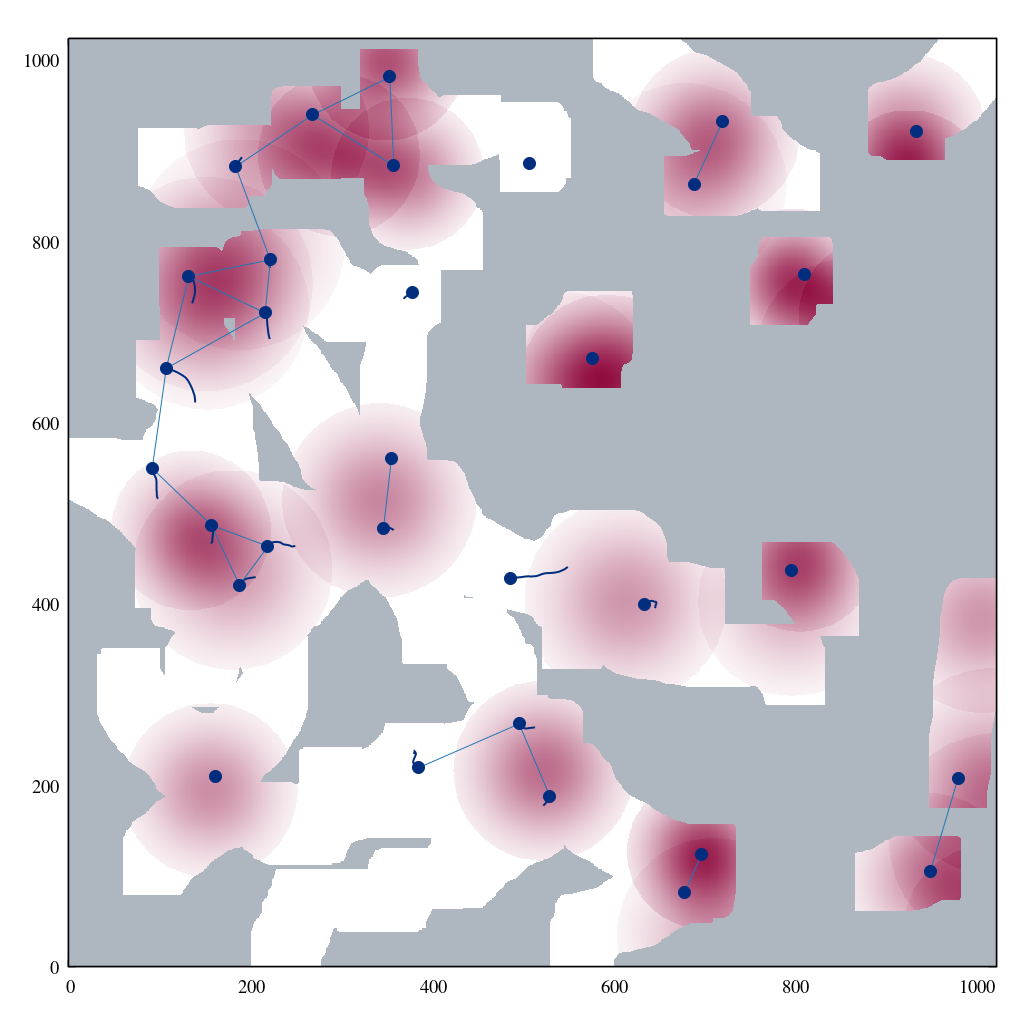
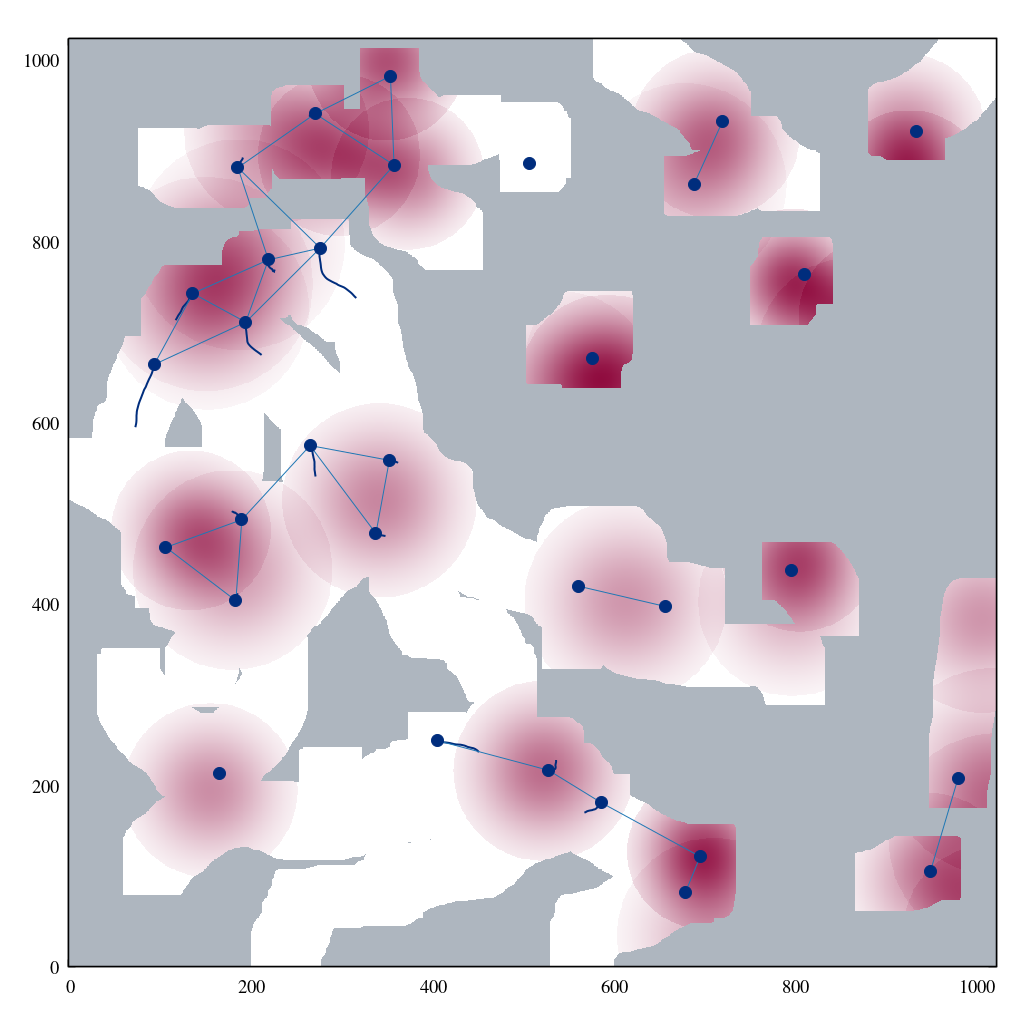
12.7 V1

diff --git a/python/coverage_control/algorithms/controllers.py b/python/coverage_control/algorithms/controllers.py
@@ -34,9 +34,36 @@ from ..core import CoverageSystem
 from ..core import Parameters
 from ..core import PointVector
 from coverage_control.nn.models.diffusion_policy import DiffusionPolicy
+import torch.nn.functional as F
+
 
 __all__ = ["ControllerCVT", "ControllerNN"]
 
+import numpy as np  # 新增
+
+def build_diffusion_schedule(
+    num_steps: int,
+    beta_start: float = 1e-4,
+    beta_end: float = 2e-2,
+    device: torch.device | str | None = None,
+):
+    """
+    创建与 train_diffusion.py 中一致的线性 beta 调度。
+    只用到 betas, alphas, alpha_cumprod 就够了。
+    """
+    if device is None:
+        device = "cpu"
+
+    betas = torch.linspace(beta_start, beta_end, num_steps, device=device)
+    alphas = 1.0 - betas
+    alpha_cumprod = torch.cumprod(alphas, dim=0)
+
+    return {
+        "num_steps": num_steps,
+        "betas": betas,
+        "alphas": alphas,
+        "alpha_cumprod": alpha_cumprod,
+    }
 
 class ControllerCVT:
     """
@@ -105,48 +132,95 @@ class ControllerNN:
         self.config = config
         self.params = params
         self.name = self.config["Name"]
-        self.policy_type = self.config.get("PolicyType", "LPAC")
+        # PolicyType: "LPAC"（默认）或 "DIFFUSION"
+        self.policy_type = str(self.config.get("PolicyType", "LPAC")).upper()
+
         self.use_cnn = self.config["UseCNN"]
         self.use_comm_map = self.config["UseCommMap"]
         self.cnn_map_size = self.config["CNNMapSize"]
 
         self.device = torch.device("cuda" if torch.cuda.is_available() else "cpu")
-        # print(f"Using device: {self.device}")
 
+        # 归一化统计量（LPAC / Diffusion 都可能会用到）
+        self.actions_mean: torch.Tensor | None = None
+        self.actions_std: torch.Tensor | None = None
+
+        # 扩散调度结构，只在 DIFFUSION 模式下用
+        self.diffusion: dict | None = None
+
+        # --------------------------------------------------------------
+        # 1) 如果配置里给的是 ModelFile（原作者 JIT 导出的那种）
+        # --------------------------------------------------------------
         if "ModelFile" in self.config:
             self.model_file = IOUtils.sanitize_path(self.config["ModelFile"])
-            self.model = torch.load(self.model_file).to(self.device)
-        else:  # Load from ModelStateDict
-            self.learning_params_file = IOUtils.sanitize_path(
-                    self.config["LearningParams"]
-                    )
+            # 作者这里用的是 torch.load（而不是 torch.jit.load），我们保持行为一致
+            self.model = torch.load(self.model_file, map_location=self.device)
+        else:
+            # ----------------------------------------------------------
+            # 2) 否则，用 LearningParams + ModelStateDict 的方式加载
+            # ----------------------------------------------------------
+            self.learning_params_file = IOUtils.sanitize_path(self.config["LearningParams"])
             self.learning_params = IOUtils.load_toml(self.learning_params_file)
+
             if self.policy_type == "LPAC":
+                # 原始 LPAC GNN policy，保持不变
                 self.model = cc_nn.LPAC(self.learning_params).to(self.device)
+                # LPAC 内部的 load_model 会自己处理 state_dict 和 actions_mean/std
                 self.model.load_model(IOUtils.sanitize_path(self.config["ModelStateDict"]))
-            
-            elif self.policy_type == "Diffusion":
-                # 新增的DiffusionPolicy 的加载
+                self.actions_mean = self.model.actions_mean.to(self.device)
+                self.actions_std = self.model.actions_std.to(self.device)
+
+            elif self.policy_type == "DIFFUSION":
+                # 我们训练好的 DiffusionPolicy
                 ckpt_path = IOUtils.sanitize_path(self.config["ModelStateDict"])
                 ckpt = torch.load(ckpt_path, map_location=self.device)
-                
+
                 if isinstance(ckpt, dict) and "model_state_dict" in ckpt:
-                    state_dict = ckpt["model_state_dict"]
+                    raw_state_dict = ckpt["model_state_dict"]
                 else:
-                    state_dict = ckpt
-                
+                    raw_state_dict = ckpt
+
+                # 从 state_dict 中把 actions_mean / actions_std 抠出来，
+                # 并且从 state_dict 中删除，避免 load_state_dict 报 Unexpected key
+                am = raw_state_dict.pop("actions_mean", None)
+                as_ = raw_state_dict.pop("actions_std", None)
+                if am is not None and as_ is not None:
+                    self.actions_mean = am.to(self.device)
+                    self.actions_std = as_.to(self.device)
+
                 self.model = DiffusionPolicy(self.learning_params).to(self.device)
-                self.model.load_state_dict(state_dict, strict=True)
-            
-        self.actions_mean = self.model.actions_mean.to(self.device)
-        self.actions_std = self.model.actions_std.to(self.device)
+                missing, unexpected = self.model.load_state_dict(raw_state_dict, strict=False)
+                if unexpected:
+                    print(f"[DiffusionPolicy] Ignoring unexpected keys: {unexpected}")
+                if missing:
+                    print(f"[DiffusionPolicy] Missing keys (usually fine): {missing}")
+
+                # 构造扩散调度（与 train_diffusion.py 一致）
+                diff_train_cfg = self.learning_params.get("DiffusionTraining", {})
+                num_steps = int(diff_train_cfg.get("NumDiffusionSteps", 1000))
+                beta_start = float(diff_train_cfg.get("BetaStart", 1e-4))
+                beta_end = float(diff_train_cfg.get("BetaEnd", 2e-2))
+                self.diffusion = build_diffusion_schedule(
+                    num_steps=num_steps,
+                    beta_start=beta_start,
+                    beta_end=beta_end,
+                    device=self.device,
+                )
+
+            else:
+                raise ValueError(f"[ControllerNN] Unknown PolicyType: {self.policy_type}")
+
+        # 模型统一放到 device 上并编译
         self.model = self.model.to(self.device)
         self.model.eval()
         self.model = torch.compile(self.model, dynamic=True)
 
-    def step(self, env):
+    # ------------------------------------------------------------------
+    # ControllerNN.step: 根据 policy_type 分别处理 LPAC / Diffusion
+    # ------------------------------------------------------------------
+    def step(self, env: CoverageSystem) -> (float, bool):
         """
-        step function for the neural network controller
+        Step function for the neural network controller
 
         Performs three steps:
         1. Get the data from the environment
@@ -157,16 +231,151 @@ class ControllerNN:
         Returns:
             Objective value and convergence flag
         """
-        pyg_data = CoverageEnvUtils.get_torch_geometric_data(
-                env, self.params, True, self.use_comm_map, self.cnn_map_size
-                ).to(self.device)
-        with torch.no_grad():
-            actions = self.model(pyg_data)
-        actions = actions * self.actions_std + self.actions_mean
-        point_vector_actions = PointVector(actions.cpu().numpy())
-        env.StepActions(point_vector_actions)
+        if self.policy_type == "LPAC":
+            # 原始 LPAC 路径：用 CoverageEnvUtils 构造 torch_geometric 数据
+            pyg_data = CoverageEnvUtils.get_torch_geometric_data(
+                env,
+                self.params,
+                True,                 # use_cnn
+                self.use_comm_map,
+                self.cnn_map_size,
+            ).to(self.device)
 
-        # Check if actions are all zeros (1e-12)
-        if torch.allclose(actions, torch.zeros_like(actions), atol=1e-5):
-            return env.GetObjectiveValue(), True
-        return env.GetObjectiveValue(), False
+            with torch.no_grad():
+                actions = self.model(pyg_data)  # (N, 2)
+
+            if self.actions_mean is not None and self.actions_std is not None:
+                actions = actions * self.actions_std + self.actions_mean
+
+        elif self.policy_type == "DIFFUSION":
+            # Diffusion policy：用当前 env 状态跑一条完整的反向扩散链
+            with torch.no_grad():
+                actions = self._diffusion_step(env)  # (N, 2)
+
+        else:
+            raise ValueError(f"[ControllerNN] Unknown PolicyType: {self.policy_type}")
+
+        # 把 (N, 2) 的动作转成 C++ 所需的 PointVector
+        actions_np = actions.detach().cpu().numpy()
+        point_vector_actions = PointVector(actions_np)
+        error_flag = env.StepActions(point_vector_actions)
+        if error_flag:
+            raise ValueError("Error in env.StepActions(actions)")
+
+        objective_value = env.GetObjectiveValue()
+        # 简单收敛判定：所有动作接近 0
+        converged = torch.allclose(actions, torch.zeros_like(actions), atol=1e-5)
+        return objective_value, converged
+
+    # ------------------------------------------------------------------
+    # 私有函数：在当前 env 状态下跑一条扩散采样链，得到 a_0
+    # ------------------------------------------------------------------
+    def _diffusion_step(self, env: CoverageSystem) -> torch.Tensor:
+        """
+        使用当前环境状态，跑一次完整的反向扩散链，输出当前时刻的动作 a_0。
+        返回形状: (num_robots, 2)
+        """
+        assert self.diffusion is not None, "[ControllerNN] Diffusion schedule not initialized."
+
+        num_robots = env.GetNumRobots()
+
+        local_maps_list = []
+        obstacle_maps_list = []
+        positions_list = []
+
+        # 1. 从 env 读取局部地图和机器人位置
+        for rid in range(num_robots):
+            # C++ 端 API: GetRobotLocalMap(self, rid) -> np.ndarray[float32[m, n]]
+            local_map_np = env.GetRobotLocalMap(rid)
+            obstacle_map_np = env.GetRobotObstacleMap(rid)
+
+            local_maps_list.append(torch.from_numpy(local_map_np).float())
+            obstacle_maps_list.append(torch.from_numpy(obstacle_map_np).float())
+
+            pos_np = np.asarray(env.GetRobotPosition(rid), dtype=np.float32)  # (2,)
+            positions_list.append(torch.from_numpy(pos_np))
+
+        local_maps = torch.stack(local_maps_list, dim=0)       # (N, H_raw, W_raw)
+        obstacle_maps = torch.stack(obstacle_maps_list, dim=0) # (N, H_raw, W_raw)
+        positions = torch.stack(positions_list, dim=0)         # (N, 2)
+
+        # ---- 1.5 确保和训练时 CNN 输入尺寸一致：H = W = self.cnn_map_size ----
+        target_size = getattr(self, "cnn_map_size", 32)  # 默认 32，对应 learning_params 里的 CNNMapSize
+        if local_maps.dim() != 3:
+            raise RuntimeError(
+                f"[ControllerNN._diffusion_step] unexpected local_maps.shape={local_maps.shape}"
+            )
+
+        N, H_raw, W_raw = local_maps.shape
+
+        if H_raw != target_size or W_raw != target_size:
+            # (N, 1, H_raw, W_raw) -> 插值 -> (N, 1, target_size, target_size)
+            local_maps = F.interpolate(
+                local_maps.unsqueeze(1),
+                size=(target_size, target_size),
+                mode="bilinear",
+                align_corners=False,
+            ).squeeze(1)
+            obstacle_maps = F.interpolate(
+                obstacle_maps.unsqueeze(1),
+                size=(target_size, target_size),
+                mode="bilinear",
+                align_corners=False,
+            ).squeeze(1)
+            H, W = target_size, target_size
+        else:
+            H, W = H_raw, W_raw
+
+
+        # 2. 构造 DiffusionPolicy 所需的 coverage_maps: (B=1, N, C=4, H, W)
+        coverage_maps = torch.zeros(
+            (1, N, 4, H, W), dtype=torch.float32, device=self.device
+        )
+        coverage_maps[0, :, 0, :, :] = local_maps.to(self.device)
+        coverage_maps[0, :, 1, :, :] = obstacle_maps.to(self.device)
+
+        # 通信图通道（第 3、4 个）目前暂时置 0；
+        # 若要严格对齐训练，可以后续根据 env.GetCommunicationMaps() 构造。
+        # comm_maps = env.GetCommunicationMaps()  # 若需要，可在这里用
+
+        positions = positions.unsqueeze(0).to(self.device)  # (1, N, 2)
+
+        # 3. 反向扩散采样：从 x_T ~ N(0, I) 迭代到 x_0
+        diff = self.diffusion
+        num_steps = diff["num_steps"]
+        betas = diff["betas"]
+        alphas = diff["alphas"]
+        alpha_cumprod = diff["alpha_cumprod"]
+
+        B = 1
+        actions = torch.randn((B, N, 2), device=self.device)  # x_T
+
+        for step_t in reversed(range(num_steps)):
+            t = torch.full((B,), step_t, device=self.device, dtype=torch.long)
+
+            # epsilon_hat = eps_theta(x_t, condition, t)
+            eps_hat = self.model(coverage_maps, actions, t, positions)  # (B, N, 2)
+
+            beta_t = betas[step_t]
+            alpha_t = alphas[step_t]
+            alpha_bar_t = alpha_cumprod[step_t]
+            sqrt_one_minus_alpha_bar_t = torch.sqrt(1.0 - alpha_bar_t)
+
+            coef1 = 1.0 / torch.sqrt(alpha_t)
+            coef2 = (1.0 - alpha_t) / sqrt_one_minus_alpha_bar_t
+
+            mean = coef1 * (actions - coef2 * eps_hat)
+
+            if step_t > 0:
+                noise = torch.randn_like(actions)
+                sigma_t = torch.sqrt(beta_t)
+                actions = mean + sigma_t * noise
+            else:
+                actions = mean  # t == 0
+
+        # 4. 反归一化
+        if self.actions_mean is not None and self.actions_std is not None:
+            actions = actions * self.actions_std + self.actions_mean
+
+        # 返回 (N, 2)
+        return actions.squeeze(0)
